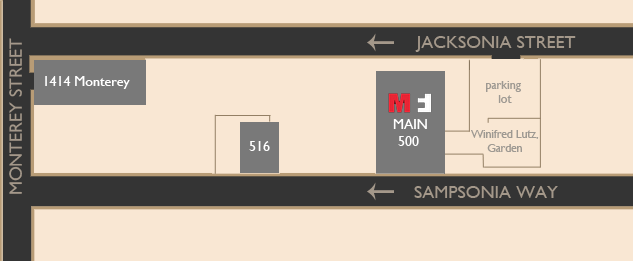
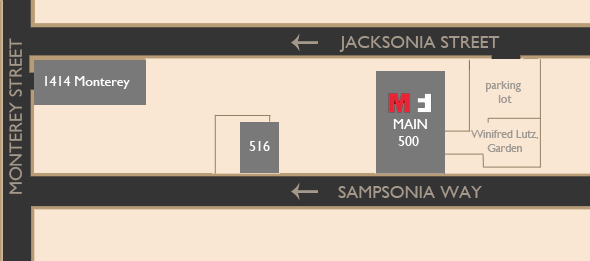
map img fixed

diff --git a/map.html b/map.html
@@ -27,7 +27,7 @@
 		<div data-role="content">	
 			<div id="mappage">
 				<h3> Street View</h3>
-			<div id="map"><img src="imgs/mainmap2.png" USEMAP="#main">
+			<div id="map"><img style="width:100%;"src="imgs/mainmap2.png" USEMAP="#main">
 			<map name="main">
 				<area shape="rect" coords="135,55,30,98" href="#two">
 				<area shape="rect" coords="260,115,223,165" href="#three">

diff --git a/css/styles.css b/css/styles.css
@@ -48,7 +48,6 @@ margin-left:-40px;
 }
 
 
-
 #content{
 	background-color: #fff;
 	padding-left: 10px;
